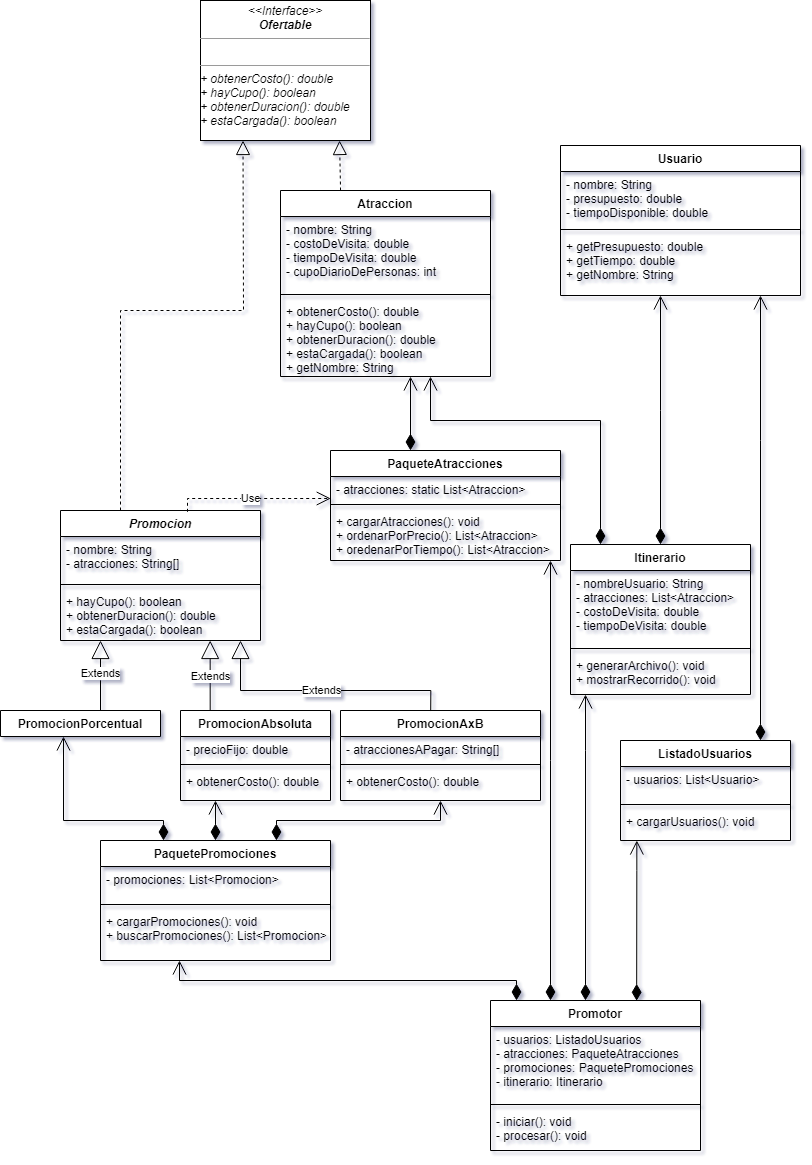
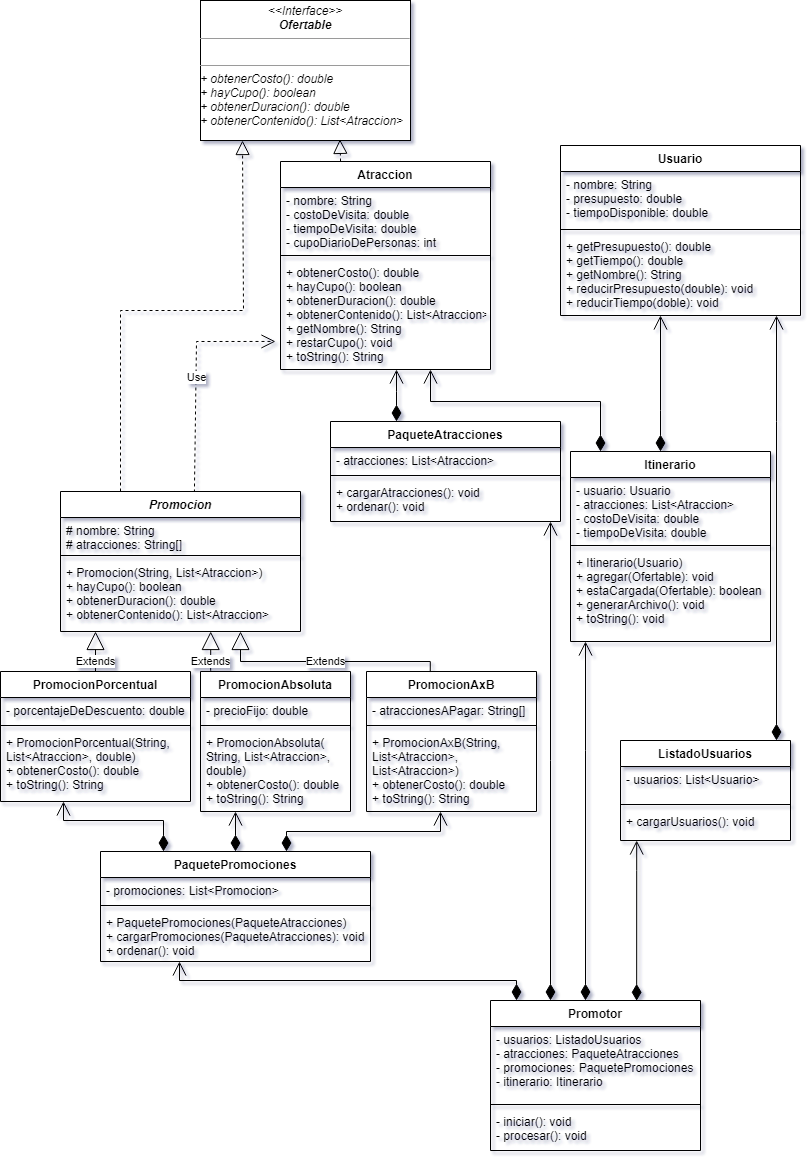
Se actualiza Ofertable, Promotor, archivo promociones e imagen diagrama

diff --git a/src/tierramedia/Ofertable.java b/src/tierramedia/Ofertable.java
@@ -1,8 +1,10 @@
 package tierramedia;
 
+import java.util.List;
+
 public interface Ofertable {
 	public double obtenerCosto();
 	public double obtenerDuracion();
 	public boolean hayCupo();
-	public boolean estaCargada();
-	}
+	public List<Atraccion> obtenerContenido();
+}
